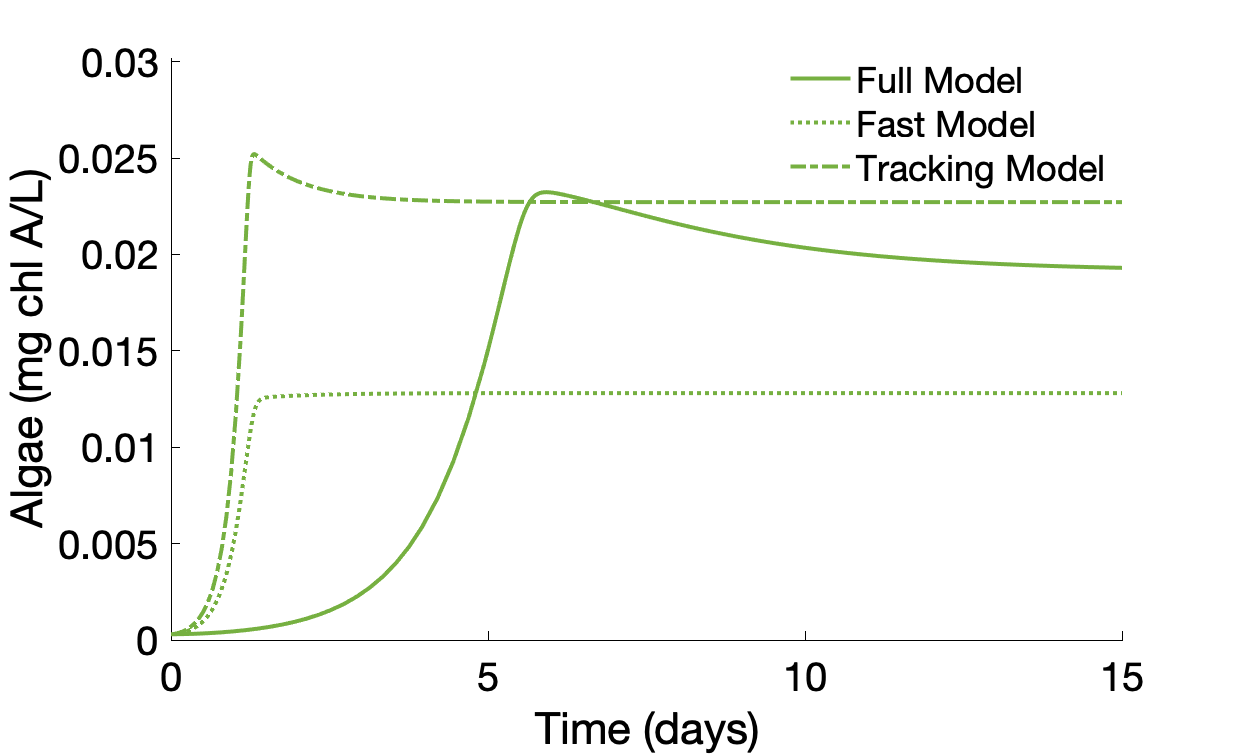
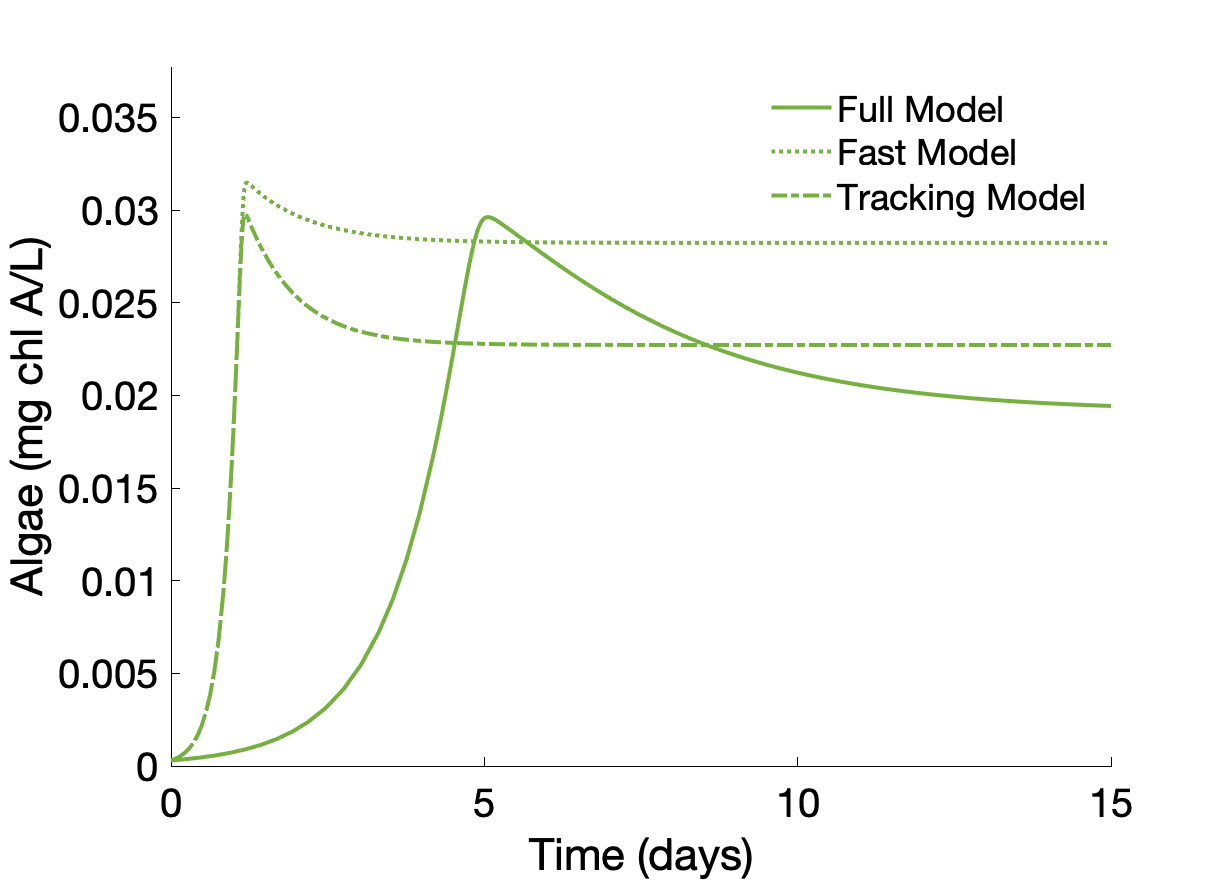
updated initial conditions

diff --git a/Figure 4/figure_4.m b/Figure 4/figure_4.m
@@ -3,15 +3,15 @@
 % Steady state analysis of NAE-model using exponential function as
 % inflow/outflow of nutrients functions
 clear all; clc; close all;
-n=15;
+n=50;
 domain = [0 n];
 algaecolordet = 1/255*[118,176,65]; % color for algae (green)
 nutrientcolordet = 1/255*[255,201,20]; % color for nutrients (yellow)\
 EPScolordet = 1/255*[125,91,166]; % color for EPS
 % 
 % % %Parameter values for fig 4a
-% phi = .002;
-% psi = .5;
+% phi = .0001;
+% psi = .1;
 % mu = .08;
 % gamma = .01; 
 % nu_1 = .2; 
@@ -33,9 +33,9 @@ EPScolordet = 1/255*[125,91,166]; % color for EPS
 % eta = .03;
 
 %Parameter values for fig 4c
-phi = .001;
+phi = .01;
 psi = .001;
-mu = .000088;
+mu = .08;
 gamma = .01; 
 nu_1 = .2; 
 nu_2 = .05; 
@@ -52,12 +52,13 @@ d = (nu_2*gamma)/(mu*eta);
 f = xi * c;
 
 %Initial conditions
-IC_N = .2;
+IC_N = 5;
 IC_A = .03;
-IC_E = .8;
+IC_E = .01;
 
 IC_exp = [IC_N IC_A IC_E];
-
+value = (IC_A/epsilon)*((f*IC_N)/(IC_N+1)-1);
+fprintf('N = %.2f mg N/L\n', value);
 %calculating NAE-model solution plots 
 [IVsol_exp, DVsol_exp] = ode45(@(t, y) DEdef_exp(t, y, a,b,c,f,d,epsilon), domain, IC_exp);
 N_sol_exp = DVsol_exp(:, 1)*gamma;

diff --git a/Figure 1/figure_1.m b/Figure 1/figure_1.m
@@ -23,10 +23,10 @@ EPScolordet = 1/255*[125,91,166]; % color for EPS
 % xi = .2;
 % delta = .007; 
 % eta = .03;
+
 % 
-% % 
 % %Parameter values for fig 1b
-phi = .00001;
+phi = .0001;
 psi = .001;
 mu = .15;
 gamma = .01; 
@@ -44,10 +44,12 @@ d = (nu_2*gamma)/(mu*eta);
 f = xi * c;
 
 %Initial conditions
-IC_N = .2;
+IC_N = 5;
 IC_A = .03;
-IC_E = .8;
+IC_E = .01;
 
+value = IC_A*((f*IC_N)/(IC_N+1)-1);
+fprintf('N = %.2f mg N/L\n', value);
 %initial condition vector 
 IC_fast = [IC_N IC_A];
 

diff --git a/Figure 9/Figure_9.m b/Figure 9/Figure_9.m
@@ -31,9 +31,10 @@ d = (nu_2*gamma)/(mu*eta);
 f_vec = xi_vec* (nu_1/delta);
 
 %Initial conditions
-IC_N = .2;
+IC_N = 5;
 IC_A = .03;
-IC_E = .8; 
+IC_E = .01;
+
 %Allocting space for the maximum values of algae, nutrients, and EPS 
 A_max = zeros(1, n_amount);
 N_max = zeros(1,n_amount);

diff --git a/Figure 8/figure_8b.m b/Figure 8/figure_8b.m
@@ -29,9 +29,10 @@ d = (nu_2*gamma)/(mu*eta);
 f = xi * c;
 
 %Initial conditions
-IC_N = .2;
+IC_N = 5;
 IC_A = .03;
-IC_E = .8;
+IC_E = .01;
+
 %Allocting space for the maximum values of algae, nutrients, and EPS 
 A_max = zeros(1,length(b_vec));
 N_max = zeros(1,length(b_vec));

diff --git a/Figure 8/figure_8a.m b/Figure 8/figure_8a.m
@@ -29,9 +29,9 @@ d = (nu_2*gamma)/(mu*eta);
 f = xi * c;
 
 %Initial conditions
-IC_N = .2;
+IC_N = 5;
 IC_A = .03;
-IC_E = .8;
+IC_E = .01;
 
 %Allocting space for the maximum values of algae, nutrients, and EPS 
 A_max = zeros(1,length(a_vec));

diff --git a/Figure 8/figure_8c.m b/Figure 8/figure_8c.m
@@ -30,9 +30,10 @@ d = (nu_2*gamma)/(mu*eta);
 f = 5.7;
 
 %Initial conditions
-IC_N = .2;
+IC_N = 5;
 IC_A = .03;
-IC_E = .8; 
+IC_E = .01;
+
 
 %Allocting space for the maximum values of algae, nutrients, and EPS 
 A_max = zeros(1, n_amount);

diff --git a/Figure 3/figure_3.m b/Figure 3/figure_3.m
@@ -37,9 +37,9 @@ f = xi * c;
 h = (sigma*gamma)/mu;
 
 %Initial conditions
-IC_N = .2;
+IC_N = 10;
 IC_A = .03;
-IC_E = .8;
+IC_E = .01;
 
 %initial condition vector 
 IC_fast = [IC_N IC_A];
